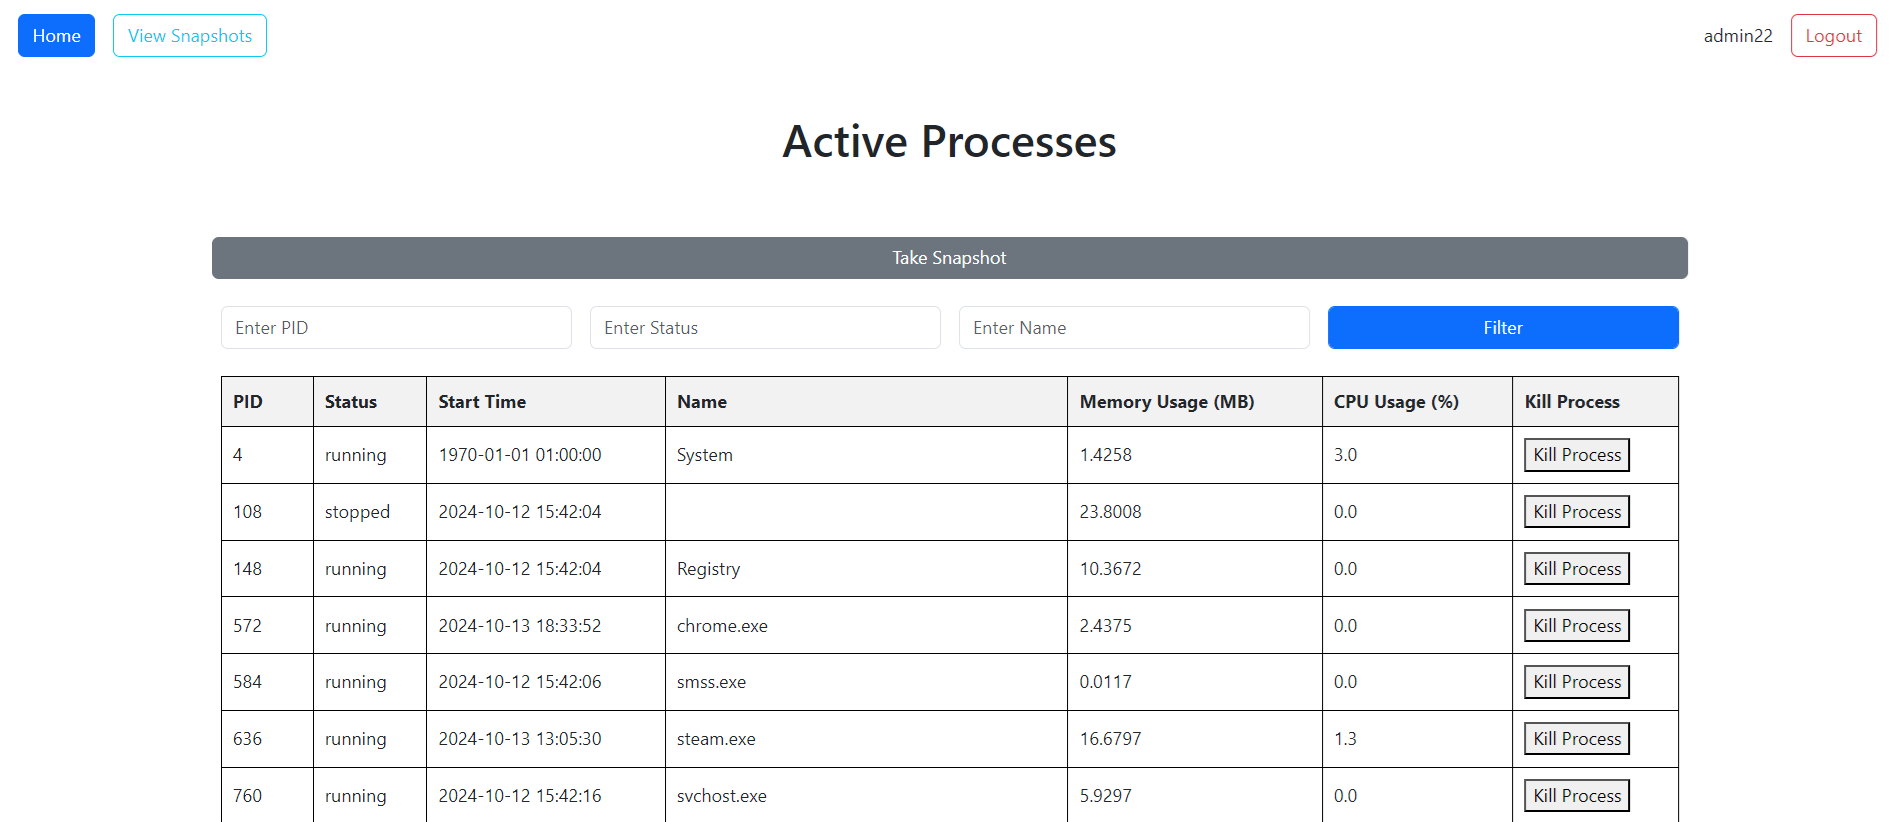
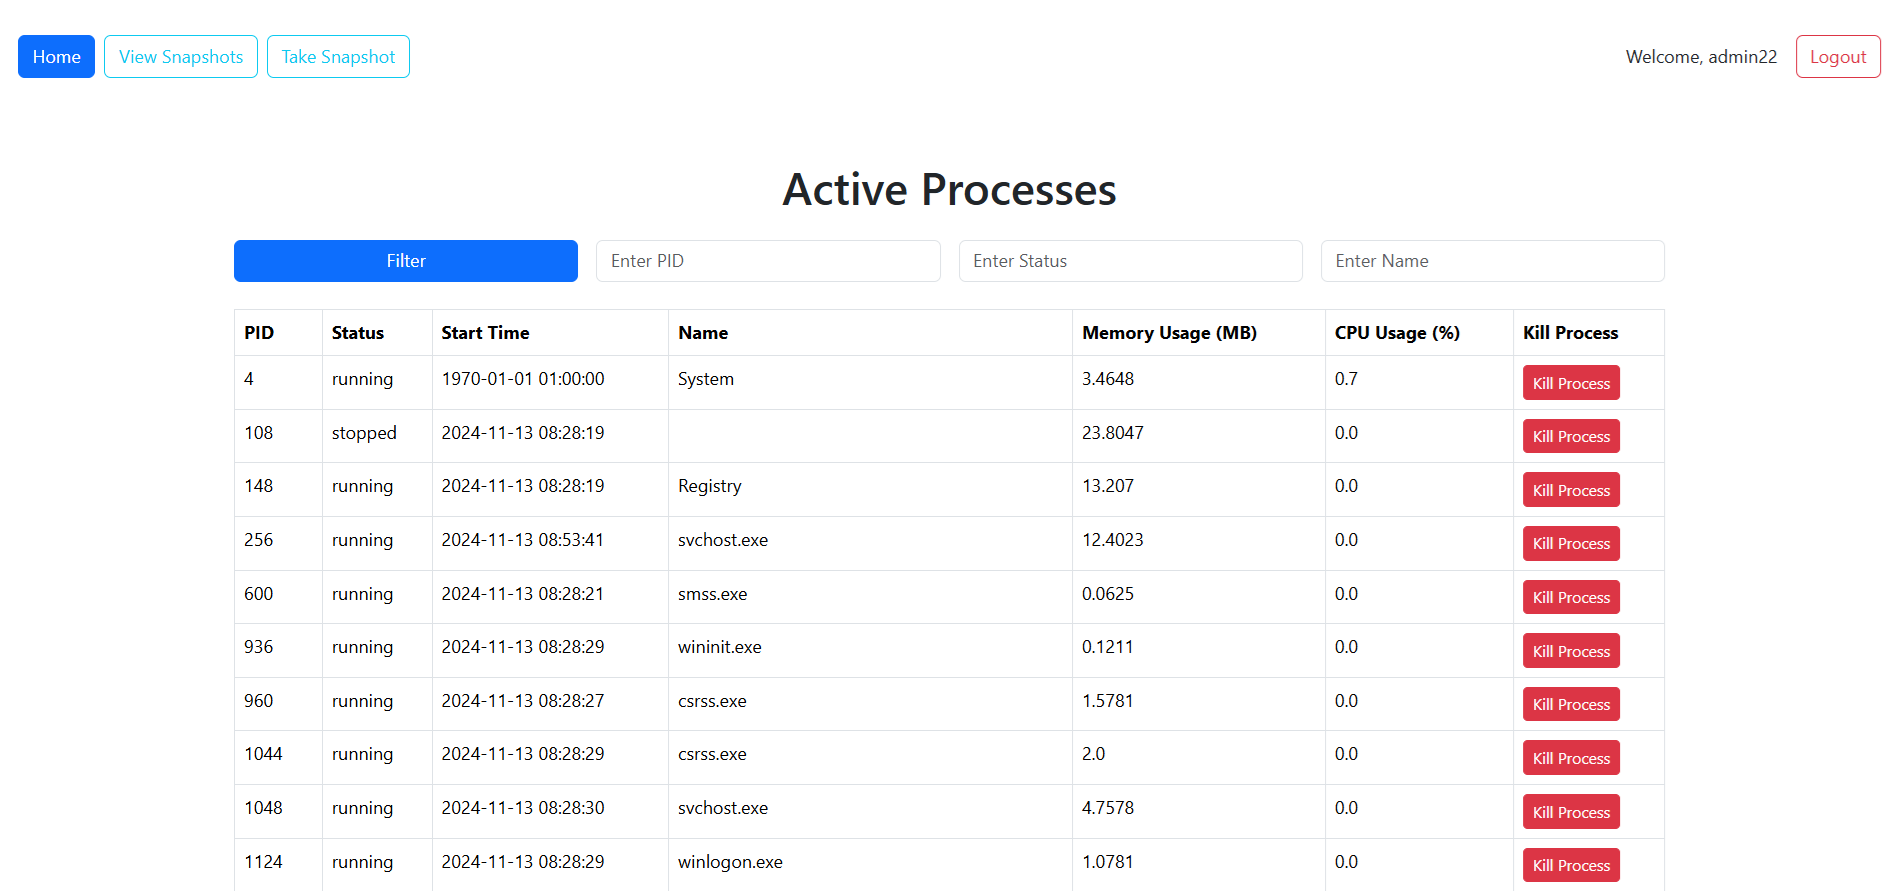
maked style better and removed useless code

diff --git a/templates/base.html b/templates/base.html
@@ -11,39 +11,40 @@
         integrity="sha384-QWTKZyjpPEjISv5WaRU9OFeRpok6YctnYmDr5pNlyT2bRjXh0JMhjY6hW+ALEwIH" crossorigin="anonymous">
 
   <script src="https://cdn.jsdelivr.net/npm/bootstrap@5.3.3/dist/js/bootstrap.bundle.min.js"></script>
-
   <script src="https://unpkg.com/htmx.org@2.0.3"
           integrity="sha384-0895/pl2MU10Hqc6jd4RvrthNlDiE9U1tWmX7WRESftEDRosgxNsQG/Ze9YMRzHq"
           crossorigin="anonymous"></script>
+
   {% block extra_css %}
   {% endblock extra_css %}
 </head>
 <body>
-<div class="main-container">
-  <div class="content d-flex justify-content-between mt-3">
+<div class="container-fluid p-3">
+
+  <div class="content d-flex justify-content-between align-items-center mt-3">
     <div class="d-flex">
       {% if request.user.is_authenticated %}
-        <a href="{% url 'processes:index' %}" class="btn btn-primary ms-3 d-flex align-items-center">
-          Home
-        </a>
-        <a href="{% url 'processes:snapshot_list' %}" class="btn btn-outline-info ms-3">View Snapshots</a>
+        <a href="{% url 'processes:process_list' %}" class="btn btn-primary me-2">Home</a>
+        <a href="{% url 'processes:snapshot_list' %}" class="btn btn-outline-info me-2">View Snapshots</a>
+        <form method="POST" action="{% url 'processes:take_snapshot' %}" class="d-inline me-2">
+          {% csrf_token %}
+          <button type="submit" class="btn btn-outline-info">Take Snapshot</button>
+        </form>
       {% endif %}
     </div>
-    <div class="d-flex justify-content-end align-items-center">
+    <div class="d-flex align-items-center">
       {% if request.user.is_authenticated %}
-        <span>{{ user.username }}</span>
-        <a href="{% url 'processes:logout' %}" class="btn btn-outline-danger ms-3" style="margin: 0 20px;">Logout</a>
+        <span class="me-3">Welcome, {{ user.username }}</span>
+        <a href="{% url 'processes:logout' %}" class="btn btn-outline-danger">Logout</a>
       {% else %}
         <a href="{% url 'processes:register' %}" class="btn btn-outline-primary me-2">Sign up</a>
-        <a href="{% url 'processes:login' %}" class="btn btn-outline-success" style="margin-right: 20px;">Login</a>
+        <a href="{% url 'processes:login' %}" class="btn btn-outline-success">Login</a>
       {% endif %}
     </div>
   </div>
-
-  <br><br>
-
+<br>
   {% if messages %}
-    <div class="container mt-3">
+    <div class="container mb-3">
       {% for message in messages %}
         <div class="alert alert-{{ message.tags|default:'info' }} alert-dismissible fade show" role="alert">
           {{ message }}
@@ -53,8 +54,11 @@
     </div>
   {% endif %}
 
-  {% block content %}
-  {% endblock content %}
+  <main class="container">
+    {% block content %}
+    {% endblock content %}
+  </main>
+
 </div>
 
 </body>

diff --git a/templates/processes/process_list.html b/templates/processes/process_list.html
@@ -6,38 +6,27 @@
 {% block content %}
 
   <div class="container">
-    <h1 class="text-center">Active Processes</h1>
-    <form method="POST" action="{% url 'processes:take_snapshot' %}"
-          class="row g-3 justify-content-center align-items-center mt-5 text-center">
-      {% csrf_token %}
-      <button type="submit" class="btn btn-secondary">Take Snapshot</button>
-    </form>
+    <h1 class="text-center mt-5 mb-4">Active Processes</h1>
+
     <form method="GET" action="{% url 'processes:process_list' %}"
-          class="row g-3 justify-content-center align-items-center mb-4 text-center">
+          class="row g-3 mb-4 align-items-center text-center">
       <div class="col-md-3">
-        <label for="pid" class="form-label"></label>
+        <button type="submit" class="btn btn-primary w-100">Filter</button>
+      </div>
+      <div class="col-md-3">
         <input type="text" id="pid" name="pid" value="{{ request.GET.pid }}" class="form-control"
                placeholder="Enter PID">
       </div>
-
       <div class="col-md-3">
-        <label for="status" class="form-label"></label>
         <input type="text" id="status" name="status" value="{{ request.GET.status }}" class="form-control"
                placeholder="Enter Status">
       </div>
-
       <div class="col-md-3">
-        <label for="name" class="form-label"></label>
         <input type="text" id="name" name="name" value="{{ request.GET.name }}" class="form-control"
                placeholder="Enter Name">
       </div>
 
-      <div class="col-md-3">
-        <label for="name" class="form-label"></label>
-        <button type="submit" class="btn btn-primary w-100 form-control">Filter</button>
-      </div>
     </form>
-
 
     <div id="process-table"
          hx-get="{% url 'processes:process_list_partial' %}?pid={{ request.GET.pid }}&status={{ request.GET.status }}&name={{ request.GET.name }}"
@@ -46,14 +35,15 @@
          hx-indicator="#loading-indicator">
 
       {% include 'processes/process_table.html' %}
-      <br>
-      <br>
-      <br>
-      <div id="loading-indicator" class="loading-container">
-        <h2 class="text-center">Loading...</h2>
-      </div>
+
     </div>
 
+    <div id="loading-indicator" class="d-none text-center mt-3">
+      <div class="spinner-border text-primary" role="status">
+        <span class="visually-hidden">Loading...</span>
+      </div>
+      <p>Loading...</p>
+    </div>
   </div>
 
 {% endblock content %}

diff --git a/templates/processes/process_table.html b/templates/processes/process_table.html
@@ -1,31 +1,31 @@
-<table class="process-table">
-  <thead>
-  <tr>
-    <th>PID</th>
-    <th>Status</th>
-    <th>Start Time</th>
-    <th>Name</th>
-    <th>Memory Usage (MB)</th>
-    <th>CPU Usage (%)</th>
-    <th>Kill Process</th>
-  </tr>
+<table class="table table-hover table-bordered mt-4">
+  <thead class="table-grey">
+    <tr>
+      <th scope="col">PID</th>
+      <th scope="col">Status</th>
+      <th scope="col">Start Time</th>
+      <th scope="col">Name</th>
+      <th scope="col">Memory Usage (MB)</th>
+      <th scope="col">CPU Usage (%)</th>
+      <th scope="col">Kill Process</th>
+    </tr>
   </thead>
   <tbody>
-  {% for process in processes %}
-    <tr>
-      <td>{{ process.pid }}</td>
-      <td>{{ process.status }}</td>
-      <td>{{ process.start_time }}</td>
-      <td>{{ process.name }}</td>
-      <td>{{ process.memory_usage }}</td>
-      <td>{{ process.cpu_usage }}</td>
-      <td>
-        <form action="{% url 'processes:kill_process' pid=process.pid %}" method="POST">
-          {% csrf_token %}
-          <button type="submit">Kill Process</button>
-        </form>
-      </td>
-    </tr>
-  {% endfor %}
+    {% for process in processes %}
+      <tr>
+        <td>{{ process.pid }}</td>
+        <td>{{ process.status }}</td>
+        <td>{{ process.start_time }}</td>
+        <td>{{ process.name }}</td>
+        <td>{{ process.memory_usage }}</td>
+        <td>{{ process.cpu_usage }}</td>
+        <td>
+          <form action="{% url 'processes:kill_process' pid=process.pid %}" method="POST">
+            {% csrf_token %}
+            <button type="submit" class="btn btn-danger btn-sm">Kill Process</button>
+          </form>
+        </td>
+      </tr>
+    {% endfor %}
   </tbody>
 </table>

diff --git a/processes/urls.py b/processes/urls.py
@@ -6,7 +6,6 @@ from processes.auth_user import (
     RegisterUser,
 )
 from processes.views.process_views import (
-    index,
     ProcessListView,
     ProcessListPartialView,
     KillProcessView,
@@ -19,9 +18,8 @@ from processes.views.snapshot_views import (
 
 
 urlpatterns = [
-    path("", index, name="index"),
     path(
-        "processes/",
+        "",
         ProcessListView.as_view(),
         name="process_list"
     ),

diff --git a/processes/views/process_views.py b/processes/views/process_views.py
@@ -15,11 +15,6 @@ from django.views.generic.base import ContextMixin, View
 from processes.managers import ProcessManager
 
 
-@login_required
-def index(request) -> Any:
-    return render(request, "processes/process_list.html")
-
-
 class ProcessListMixin(ContextMixin, View):
     def get_filtered_processes(self) -> List[Dict[str, Any]]:
         pid_filter = self.request.GET.get("pid")
